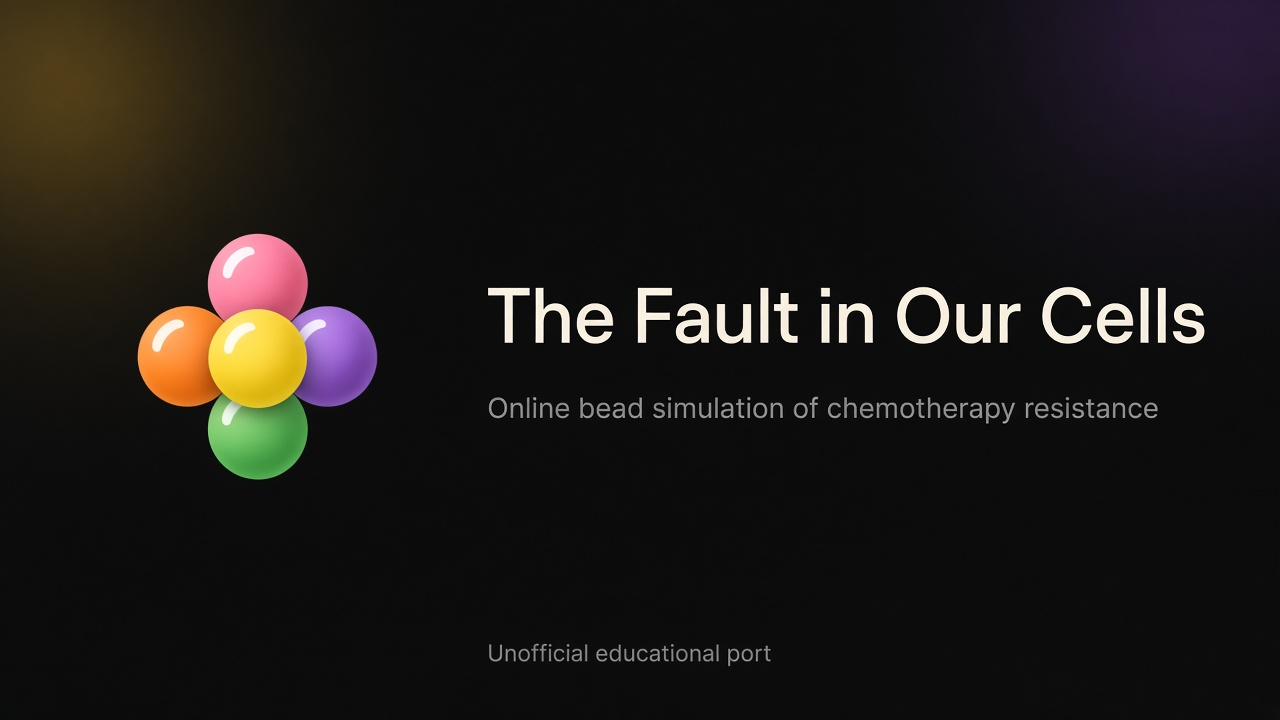
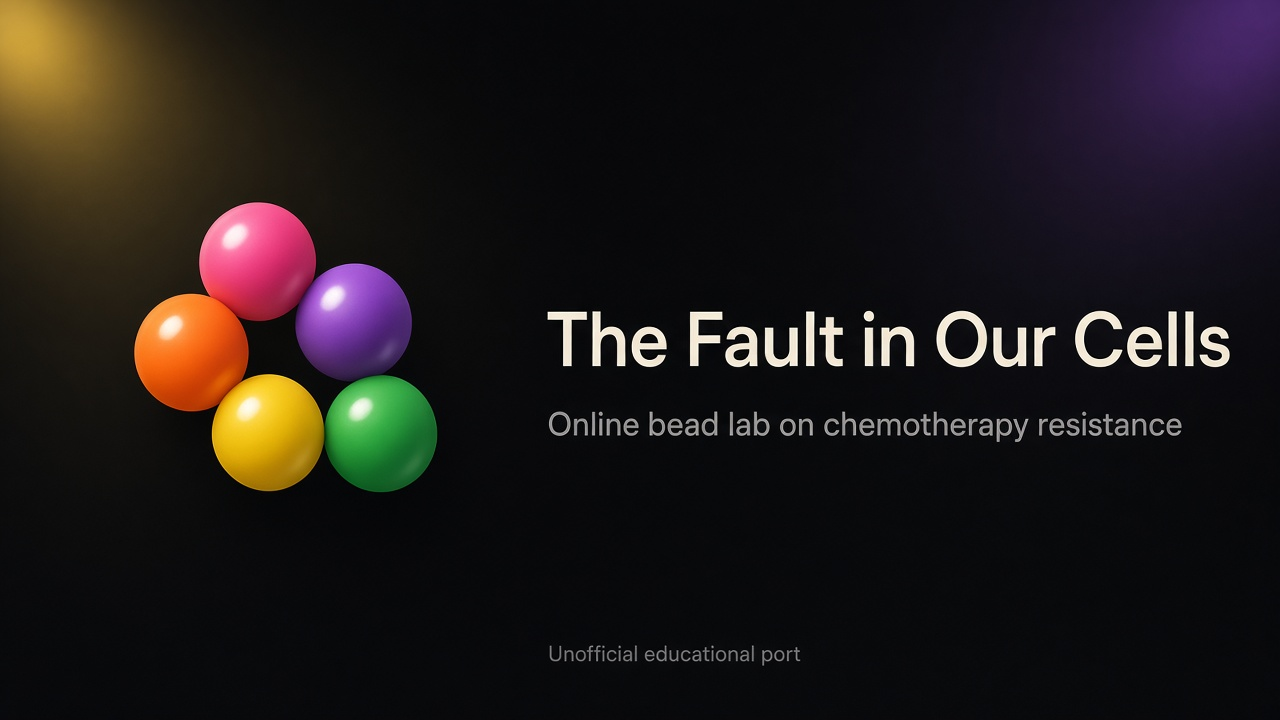
Extend each run to 10 cycles and drop casual sim wording.
Adds a mapping-table row that defines a cycle, and uses clearer lab language in the UI and metadata.

diff --git a/index.html b/index.html
@@ -9,15 +9,15 @@
     <meta name="format-detection" content="telephone=no" />
     <meta name="robots" content="index,follow" />
 
-    <title>The Fault in Our Cells · Online Bead Simulation</title>
+    <title>The Fault in Our Cells · Online Bead Lab</title>
     <meta
       name="description"
-      content="Unofficial online bead simulation of tumor heterogeneity and chemotherapy resistance, adapted from the MIT BLOSSOMS / Koch Institute lesson The Fault in Our Cells."
+      content="Unofficial online bead lab on tumor heterogeneity and chemotherapy resistance, adapted from the MIT BLOSSOMS / Koch Institute lesson The Fault in Our Cells."
     />
     <meta name="author" content="Mwihaki" />
     <meta
       name="keywords"
-      content="chemotherapy resistance, tumor heterogeneity, bead simulation, cancer education, MIT BLOSSOMS"
+      content="chemotherapy resistance, tumor heterogeneity, bead lab, cancer education, MIT BLOSSOMS"
     />
     <meta name="application-name" content="The Fault in Our Cells" />
     <meta name="apple-mobile-web-app-title" content="Fault in Our Cells" />
@@ -39,7 +39,7 @@
     <meta property="og:site_name" content="The Fault in Our Cells" />
     <meta
       property="og:title"
-      content="The Fault in Our Cells · Online Bead Simulation"
+      content="The Fault in Our Cells · Online Bead Lab"
     />
     <meta
       property="og:description"
@@ -56,7 +56,7 @@
     <meta name="twitter:card" content="summary_large_image" />
     <meta
       name="twitter:title"
-      content="The Fault in Our Cells · Online Bead Simulation"
+      content="The Fault in Our Cells · Online Bead Lab"
     />
     <meta
       name="twitter:description"
@@ -72,9 +72,9 @@
       {
         "@context": "https://schema.org",
         "@type": "LearningResource",
-        "name": "The Fault in Our Cells: Online Bead Simulation",
-        "description": "Unofficial interactive bead simulation of tumor heterogeneity and chemotherapy resistance.",
-        "learningResourceType": "Interactive simulation",
+        "name": "The Fault in Our Cells: Online Bead Lab",
+        "description": "Unofficial interactive bead lab on tumor heterogeneity and chemotherapy resistance.",
+        "learningResourceType": "Interactive activity",
         "isAccessibleForFree": true,
         "inLanguage": "en",
         "author": {
@@ -98,8 +98,8 @@
   </head>
   <body>
     <noscript>
-      This simulation needs JavaScript. Please enable it to run the bead lab
-      in your browser.
+      This page needs JavaScript. Please enable it to run the bead lab in your
+      browser.
     </noscript>
     <div id="root"></div>
     <script type="module" src="/src/main.tsx"></script>

diff --git a/src/screens/StaticScreens.tsx b/src/screens/StaticScreens.tsx
@@ -17,7 +17,7 @@ export function IntroScreen({ onStart }: { onStart: () => void }) {
           className="btn btn--primary intro-cta"
           onClick={onStart}
         >
-          Start sim
+          Start
         </button>
       </div>
     </section>
@@ -48,7 +48,7 @@ export function MappingScreen({
         <table className="map-table">
           <thead>
             <tr>
-              <th>In the simulation</th>
+              <th>In this model</th>
               <th>In real chemo resistance</th>
             </tr>
           </thead>
@@ -90,7 +90,7 @@ export function MappingScreen({
             (3 dead of one color → 2 back)
           </li>
           <li>
-            3 minutes → <strong>5 intervals</strong>; experiment run{' '}
+            <strong>{config.cycles} intervals</strong> per run; experiment run{' '}
             <strong>3 times</strong> (triplicate)
           </li>
         </ul>
@@ -106,7 +106,7 @@ export function MappingScreen({
 
       <div className="actions actions--wrap">
         <button type="button" className="btn btn--primary" onClick={onContinue}>
-          Run simulation
+          Begin run
         </button>
         <button type="button" className="btn" onClick={onExplore}>
           Change setup
@@ -147,7 +147,7 @@ export function CreditsScreen() {
         </p>
       </div>
       <div className="panel">
-        <h2>Online simulation adaptation</h2>
+        <h2>Online adaptation</h2>
         <p>
           Built by{' '}
           <a href={CREDITS.adapterUrl} target="_blank" rel="noreferrer">

diff --git a/scripts/smoke-sim.ts b/scripts/smoke-sim.ts
@@ -2,6 +2,7 @@
  * Quick smoke checks for MIT-rule invariants (run via: npx --yes tsx scripts/smoke-sim.ts)
  */
 import {
+  CYCLES_PER_RUN,
   DEFAULT_PULLS_PER_INTERVAL,
   defaultGrowthRates,
   runOneReplicate,
@@ -23,11 +24,11 @@ const control = runOneReplicate(
     resistant: [],
     growth,
     pullsPerInterval: DEFAULT_PULLS_PER_INTERVAL,
-    cycles: 5,
+    cycles: CYCLES_PER_RUN,
   },
   1,
 )
-assert(control.logs.length === 5, 'five intervals')
+assert(control.logs.length === CYCLES_PER_RUN, `${CYCLES_PER_RUN} intervals`)
 assert(control.total < 50, 'no-resistance tumor should shrink with default pulls')
 
 const resistant = runOneReplicate(
@@ -35,7 +36,7 @@ const resistant = runOneReplicate(
     resistant: ['green', 'purple'],
     growth,
     pullsPerInterval: DEFAULT_PULLS_PER_INTERVAL,
-    cycles: 5,
+    cycles: CYCLES_PER_RUN,
   },
   1,
 )
@@ -51,7 +52,7 @@ const trips = runTriplicate({
   resistant: ['yellow', 'pink'],
   growth,
   pullsPerInterval: DEFAULT_PULLS_PER_INTERVAL,
-  cycles: 5,
+  cycles: CYCLES_PER_RUN,
 })
 assert(trips.length === 3, 'triplicate should produce 3 runs')
 

diff --git a/src/content/modernScience.ts b/src/content/modernScience.ts
@@ -3,6 +3,6 @@
   paragraphs: [
     'The bead model still teaches something real and important: tumors are mixed populations, and treatment can select for cells that survive - especially if they also grow quickly.',
     'Newer research adds that resistance is not only fixed genetic clones (the “colors”). Cancer cells can also change their behavior temporarily (phenotypic plasticity), use epigenetic switches, hang on as drug-tolerant persisters, or get help from the tumor microenvironment.',
-    'So use this simulation to understand selection under chemotherapy. Remember its limit: real resistance can also be reversible or non-genetic - which is one reason curing cancer remains so hard, and why researchers study adaptive and combination strategies.',
+    'So use this model to understand selection under chemotherapy. Remember its limit: real resistance can also be reversible or non-genetic - which is one reason curing cancer remains so hard, and why researchers study adaptive and combination strategies.',
   ],
 } as const

diff --git a/src/content/questions.ts b/src/content/questions.ts
@@ -47,7 +47,7 @@ export const QUESTIONS: Question[] = [
   {
     id: 'triplicate',
     prompt:
-      'Why run the simulation three times (in triplicate)? What did the differences between runs show?',
+      'Why run the experiment three times (in triplicate)? What did the differences between runs show?',
     modelAnswer:
       'Assessment Option C asks for resistance groups run in triplicate so you can see averages and variation. Because chemo pulls cells at random, each run differs slightly - like experimental noise. Comparing means across replicates is more trustworthy than one lucky (or unlucky) run.',
   },

diff --git a/src/content/credits.ts b/src/content/credits.ts
@@ -41,7 +41,11 @@ export const MAPPING_ROWS: { sim: string; real: string }[] = [
     sim: 'Return 2 when 3 same resistant color die',
     real: 'Those clones are resistant and survive treatment',
   },
-  { sim: '5 cycles per run', real: 'Time under growth + treatment' },
+  {
+    sim: 'One cycle (Growth → Chemo → Resistance)',
+    real: 'One treatment interval: divide, random kill, then resistant clones may return',
+  },
+  { sim: '10 cycles per run', real: 'Time under growth + treatment' },
   {
     sim: '3 replicate runs',
     real: 'Repeating the experiment - chance variation, like a real lab',

diff --git a/src/screens/QuestionsScreen.tsx b/src/screens/QuestionsScreen.tsx
@@ -21,7 +21,7 @@ export function QuestionsScreen({ onContinue }: Props) {
     <section className="screen">
       <header className="screen__header">
         <p className="eyebrow">Questions</p>
-        <h1>Reflect on the simulation</h1>
+        <h1>Reflection</h1>
         <p className="lede">
           Prompts adapted from MIT BLOSSOMS / Koch Institute teacher guide,
           handout, and assessment options. Write in your own words, then submit

diff --git a/src/components/BeadCanvas.tsx b/src/components/BeadCanvas.tsx
@@ -159,5 +159,5 @@ export function BeadCanvas({ counts, highlight }: Props) {
     }
   }, [counts, highlight])
 
-  return <canvas ref={canvasRef} className="bead-canvas" aria-label="Tumor bead simulation" />
+  return <canvas ref={canvasRef} className="bead-canvas" aria-label="Tumor bead model" />
 }

diff --git a/src/sim/engine.ts b/src/sim/engine.ts
@@ -5,7 +5,7 @@
 import { COLOR_IDS, COLORS, type BeadColor } from '../content/colors'
 
 export const START_COUNT = 10
-export const CYCLES_PER_RUN = 5
+export const CYCLES_PER_RUN = 10
 export const REPLICATE_COUNT = 3
 export const RESISTANCE_TRIGGER = 3
 export const RESISTANCE_RETURN = 2

diff --git a/src/components/SiteFooter.tsx b/src/components/SiteFooter.tsx
@@ -15,7 +15,7 @@ export function SiteFooter() {
         .
       </p>
       <p>
-        Online simulation by{' '}
+        Online version by{' '}
         <a href={CREDITS.adapterUrl} target="_blank" rel="noreferrer">
           {CREDITS.adapterName}
         </a>{' '}

diff --git a/src/screens/ExploreScreen.tsx b/src/screens/ExploreScreen.tsx
@@ -151,7 +151,7 @@ export function ExploreScreen({ base, onRerunFull }: Props) {
           className="btn"
           onClick={() => onRerunFull(cfg)}
         >
-          Run simulation
+          Begin run
         </button>
       </div>
 

diff --git a/README.md b/README.md
@@ -3,7 +3,7 @@
 Unofficial interactive web port of the MIT BLOSSOMS / Koch Institute classroom bead lab
 **[Chemotherapy Resistance: The Fault in Our Cells](https://web.mit.edu/blossoms/videos/lessons/chemotherapy_resistance_fault_our_cells/)**.
 
-This project turns the paper-bag bead activity into a browser simulation so learners can see tumor heterogeneity and chemotherapy resistance, then answer reflection questions (model answers shown after submit; no grading).
+This project turns the paper-bag bead activity into a browser lab so learners can see tumor heterogeneity and chemotherapy resistance, then answer reflection questions (model answers shown after submit; no grading).
 
 | | |
 | --- | --- |
@@ -14,7 +14,7 @@ This project turns the paper-bag bead activity into a browser simulation so lear
 
 ## Features
 
-- Pre-sim mapping of beads to real biology concepts
+- Pre-lab mapping of beads to real biology concepts
 - Guided 30s-style intervals with clear phase state (Growth → Chemo → Resistance)
 - Clickable phase pills to review earlier step numbers, then continue
 - Three replicate runs (triplicate), matching the lab’s statistics option
@@ -23,15 +23,15 @@ This project turns the paper-bag bead activity into a browser simulation so lear
 - Explore knobs limited to parameters that exist in the lab model
 - Responsive layout for phone, tablet, and desktop
 
-## How the simulation works
+## How the model works
 
-The engine follows the MIT simulation rules:
+The engine follows the MIT bead-lab rules (extended to 10 intervals online):
 
 1. **Start:** 10 beads of each color (pink, orange, yellow, purple, green) = the tumor.
 2. **Growth (every 30s):** add one “cup”: Pink +1, Orange +1, Yellow +2, Purple +2, Green +3.
 3. **Chemo:** remove beads one-by-one at random (blind).
 4. **Resistance:** when 3 beads of one assigned resistant color are in the dead pile, return 2 to the tumor.
-5. **Duration:** 3 minutes → **5** growth intervals (growth at 0:30 … 2:30; stop at 3:00 with no extra cup).
+5. **Duration:** **10** growth intervals per run (classroom video uses 5 in 3 minutes; this port doubles that for a longer look).
 6. **Replicates:** run the experiment **3 times** (triplicate).
 
 **Digital-only stand-in:** the paper lab does not fix how many beads the “chemo” student pulls. Pull speed is whatever the student does by hand. This app uses a default of **16 blind pulls per 30s interval** so no-resistance tumors shrink on a similar scale to the teacher guide’s sample board. That value is adjustable in Explore and is labeled as pull speed, not as biology.
@@ -41,8 +41,8 @@ src/
   app/           Screen flow types and session config
   components/    Bead canvas, composition bars, footer
   content/       Colors, credits, questions, science note
-  screens/       Intro → mapping → sim → results → questions → …
-  sim/           MIT-rule simulation engine
+  screens/       Intro → mapping → run → results → questions → …
+  sim/           MIT-rule engine
 ```
 
 ## Requirements
